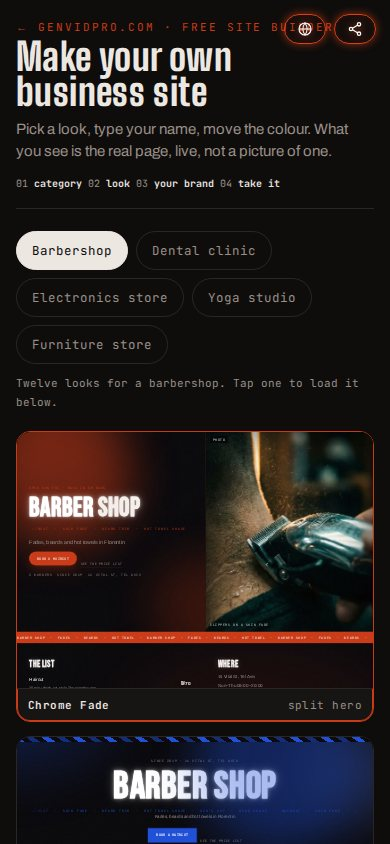
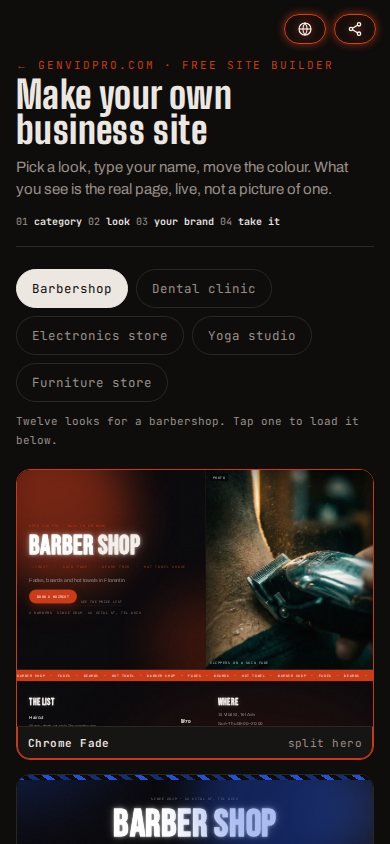
On a phone, the globe and Share sat on top of the first line
With the site chrome gone, the two pinned buttons have nothing above
them to sit in, and at 390 px they covered the kicker. The page starts
below them now. Desktop is unchanged: there the buttons are in the
top-right corner and the kicker is on the left.

diff --git a/builder.html b/builder.html
@@ -26,7 +26,11 @@
 *{box-sizing:border-box}
 body{margin:0;background:var(--ink);color:var(--tx);font-family:var(--body);-webkit-font-smoothing:antialiased}
 .wrap{max-width:1600px;margin:0 auto;padding:28px 40px 64px}
-@media(max-width:760px){.wrap{padding:20px 16px 48px}}
+/* 02.10.2026, standalone copy: on genvidpro.com the site chrome bar holds the top of
+   the page and the globe and Share sit inside it. With no chrome they are pinned to
+   the top-right corner, and on a phone they landed on top of the kicker line. The
+   page starts below them instead. */
+@media(max-width:760px){.wrap{padding:58px 16px 48px}}
 header.top{display:flex;flex-wrap:wrap;align-items:flex-end;gap:14px 24px;border-bottom:1px solid var(--line);padding-bottom:18px}
 .kicker{font-family:var(--mono);font-size:11px;letter-spacing:.18em;text-transform:uppercase;color:var(--acc)}
 h1{font-family:var(--disp);font-weight:800;font-size:clamp(38px,6vw,68px);line-height:.92;margin:6px 0 0;text-wrap:balance;letter-spacing:.01em}
